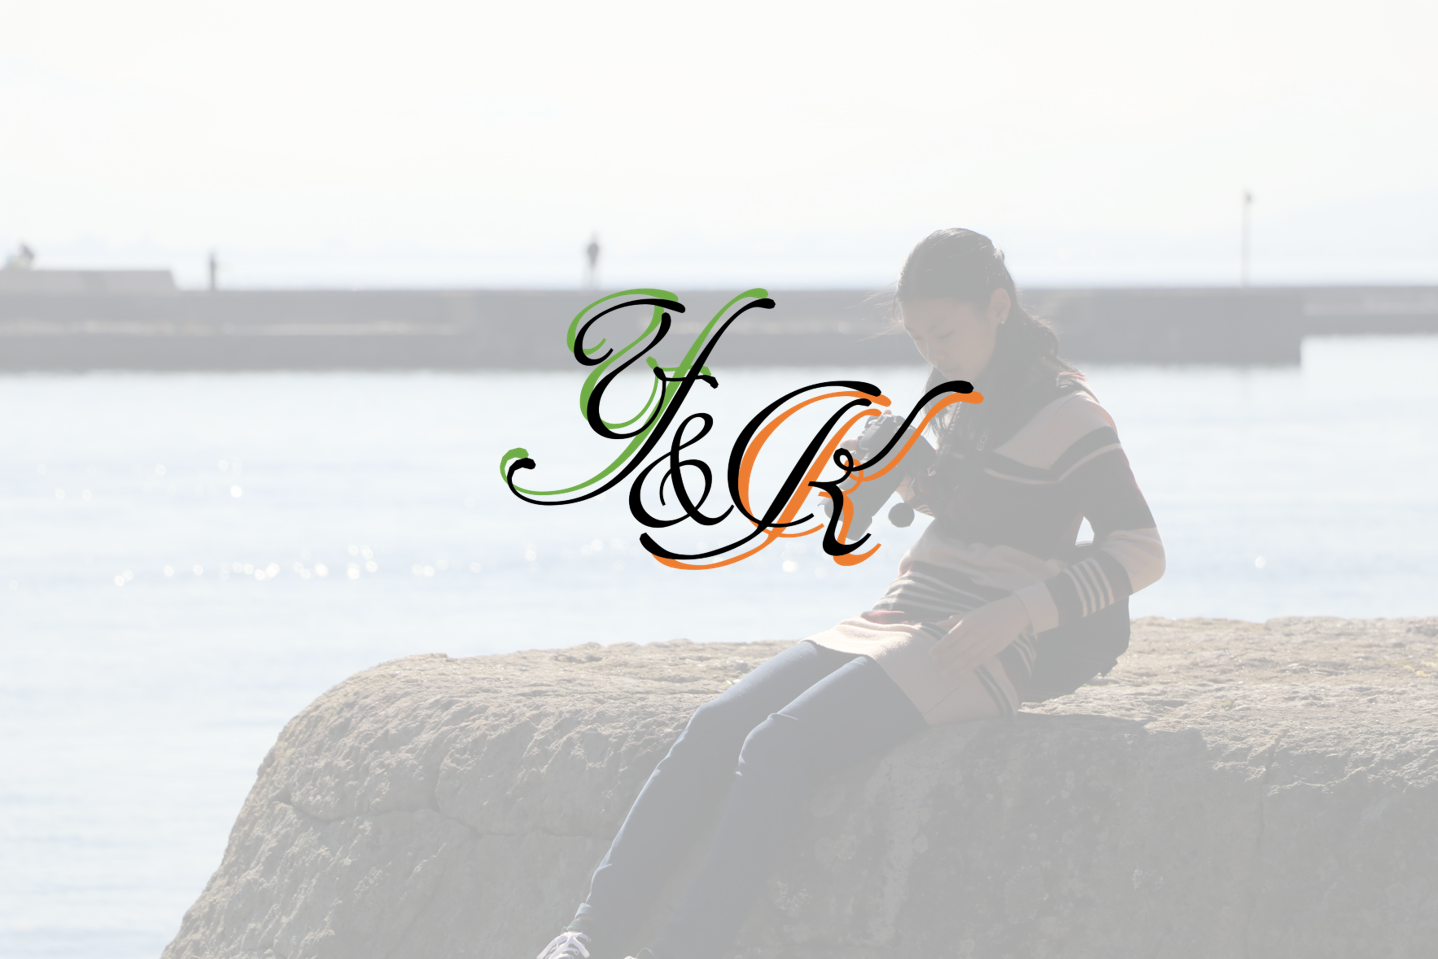
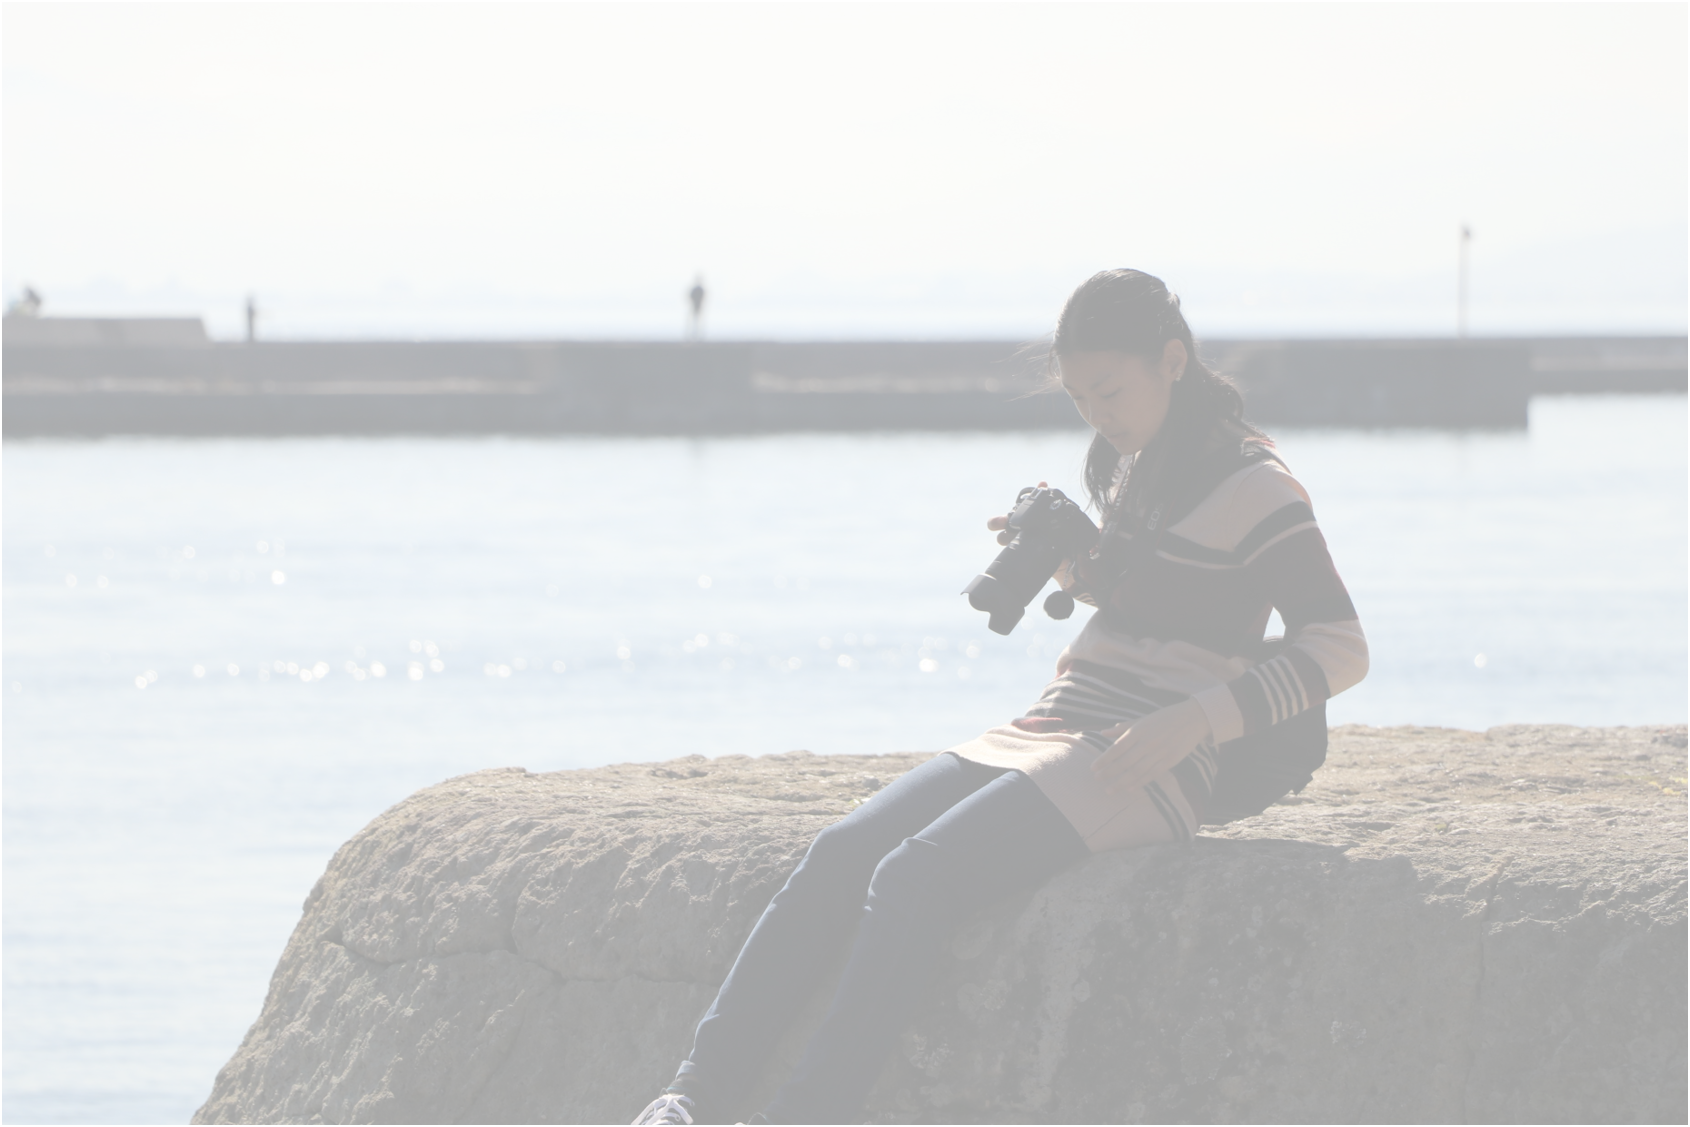
Add files via upload

Changed region(s): [[0.3366, 0.3024, 0.7038, 0.6048], [0.0, 0.9979, 1.0, 1.0]]

diff --git a/portrait/index.html b/portrait/index.html
@@ -20,11 +20,11 @@
     <!-- css -->
     <link rel="stylesheet" href="../css/main.css">
 
-    <title>Y & K studio</title>
+    <title>Kana's photo</title>
   </head>
   <body>
     <nav class="navbar navbar-expand-lg navbar-light bg-light">
-        <a class="navbar-brand" href="#">Y and K photo</a>
+        <a class="navbar-brand" href="#">Kana's photo</a>
         <button class="navbar-toggler" type="button" data-toggle="collapse" data-target="#navbarSupportedContent" aria-controls="navbarSupportedContent" aria-expanded="false" aria-label="Toggle navigation">
             <span class="navbar-toggler-icon"></span>
         </button>
@@ -35,7 +35,7 @@
                     <a class="nav-link" href="../index.html">Home<span class="sr-only">(current)</span></a>
                 </li>
                 <li class="nav-item">
-                    <a class="nav-link" href="../photographer/index.html">photographer</a>
+                    <a class="nav-link" href="../about/index.html">About</a>
                 </li>
                 <li class="nav-item">
                     <a class="nav-link" href="#">Portrait</a>
@@ -72,16 +72,16 @@
     
     <p class="sub-title">Portrait</p>
     <div class="container work gallery">
-        <div class="row">
-                <figure class="col-6 col-sm-3 col-md-2"><a href="../img/s-1/p-1.jpg" data-lightbox="group"><img src="../img/s-1/gallery/p-1.jpg" width="100%"/></a></figure>
-                <figure class="col-6 col-sm-3 col-md-2"><a href="../img/s-1/p-2.jpg" data-lightbox="group"><img src="../img/s-1/gallery/p-2.jpg" width="100%"/></a></figure>
-                <figure class="col-6 col-sm-3 col-md-2"><a href="../img/s-1/p-3.jpg" data-lightbox="group"><img src="../img/s-1/gallery/p-3.jpg" width="100%"/></a></figure>
-                <figure class="col-6 col-sm-3 col-md-2"><a href="../img/s-1/p-4.jpg" data-lightbox="group"><img src="../img/s-1/gallery/p-4.jpg" width="100%"/></a></figure>
-                <figure class="col-6 col-sm-3 col-md-2"><a href="../img/s-1/p-5.jpg" data-lightbox="group"><img src="../img/s-1/gallery/p-5.jpg" width="100%"/></a></figure>
-                <figure class="col-6 col-sm-3 col-md-2"><a href="../img/s-1/p-6.jpg" data-lightbox="group"><img src="../img/s-1/gallery/p-6.jpg" width="100%"/></a></figure>
-                <figure class="col-6 col-sm-3 col-md-2"><a href="../img/s-1/p-7.jpg" data-lightbox="group"><img src="../img/s-1/gallery/p-7.jpg" width="100%"/></a></figure>
-                <figure class="col-6 col-sm-3 col-md-2"><a href="../img/s-1/p-8.jpg" data-lightbox="group"><img src="../img/s-1/gallery/p-8.jpg" width="100%"/></a></figure>
-                <figure class="col-6 col-sm-3 col-md-2"><a href="../img/s-1/p-9.jpg" data-lightbox="group"><img src="../img/s-1/gallery/p-9.jpg" width="100%"/></a></figure>
+        <div class="row d-flex justify-content-space-around">
+                <figure><a href="../img/s-1/p-1.jpg" data-lightbox="group"><img src="../img/s-1/gallery/p-1.jpg" width="100%"/></a></figure>
+                <figure><a href="../img/s-1/p-2.jpg" data-lightbox="group"><img src="../img/s-1/gallery/p-2.jpg" width="100%"/></a></figure>
+                <figure><a href="../img/s-1/p-3.jpg" data-lightbox="group"><img src="../img/s-1/gallery/p-3.jpg" width="100%"/></a></figure>
+                <figure><a href="../img/s-1/p-4.jpg" data-lightbox="group"><img src="../img/s-1/gallery/p-4.jpg" width="100%"/></a></figure>
+                <figure><a href="../img/s-1/p-5.jpg" data-lightbox="group"><img src="../img/s-1/gallery/p-5.jpg" width="100%"/></a></figure>
+                <figure><a href="../img/s-1/p-6.jpg" data-lightbox="group"><img src="../img/s-1/gallery/p-6.jpg" width="100%"/></a></figure>
+                <figure><a href="../img/s-1/p-7.jpg" data-lightbox="group"><img src="../img/s-1/gallery/p-7.jpg" width="100%"/></a></figure>
+                <figure><a href="../img/s-1/p-8.jpg" data-lightbox="group"><img src="../img/s-1/gallery/p-8.jpg" width="100%"/></a></figure>
+                <figure><a href="../img/s-1/p-9.jpg" data-lightbox="group"><img src="../img/s-1/gallery/p-9.jpg" width="100%"/></a></figure>
         </div>
     </div>
 

diff --git a/about/index.html b/about/index.html
@@ -13,7 +13,6 @@
     <link href="https://fonts.googleapis.com/css?family=Noto+Sans+JP" rel="stylesheet">
 
     <!-- css -->
-    <link href="https://cdnjs.cloudflare.com/ajax/libs/font-awesome/4.6.3/css/font-awesome.css" rel="stylesheet">
     <link rel="stylesheet" href="../css/main.css">
 
 
@@ -32,7 +31,7 @@
                     <a class="nav-link" href="../index.html">Home<span class="sr-only">(current)</span></a>
                 </li>
                 <li class="nav-item">
-                    <a class="nav-link" href="../about/index.html">About</a>
+                    <a class="nav-link" href="#">About</a>
                 </li>
                 <li class="nav-item">
                     <a class="nav-link" href="../portrait/index.html">Portrait</a>
@@ -66,18 +65,34 @@
             </form> -->
         </div>
     </nav>
+    
+    <div class="sub-title">About</div>
 
-    <p class="sub-title">Contact</p>
-
-    <div class="share">
-		<ul style="list-style:none;">
-			<li><a href="https://www.facebook.com/TEDxShimaneU/" target="_blank"><i class="fa fa-facebook white fa-size"></i></a></li>
-			<li><a href="https://twitter.com/tedxshimaneu" target="_blank"><i class="fa fa-twitter white fa-size"></i></a></li>
-			<li><a href="https://www.instagram.com/tedxshimaneu/?hl=ja" target="_blank"><i class="fa fa-instagram white fa-size"></i></a></li>
-			<li><a href="https://www.flickr.com/photos/153907960@N03/" target="_blank"><i class="fa fa-flickr white fa-size"></i></a></li>
-		</ul>
-	</div>
-
+    
+    <div class="about contents_kana">
+        <div class="contents_inner_kana">
+            <div class="container">    
+                <div class="row d-flex justify-content-center align-items-center">
+                    <div class="text-center">
+                        <img src="../img/kana.jpg">
+                    </div>
+                    <div class="photo_info">
+                        <h3>Kana Ito</h3>
+                        <div>東京生まれ、島根育ちの写真が好きな女子大生</div>
+                        <div>主に風景や物を撮影</div>
+                        <div>2017年7月にカメラを購入</div>
+                        <div>構図に悩む日々…</div></br>
+                        <div>【使用機材】</div>
+                        <div>Canon Eos 9000D</div>
+                        <div>EF-S18-135mm F3.5-5.6 IS STM</div>
+                        <div>EF-S10-18mm F4.5-5.6 IS STM</div>
+                        <div>EF50mm F1.8 STM</div>
+                        <div>EF100mm F2.8 マクロ USM</div>
+                    </div>
+                </div>
+            </div>
+        </div>
+    </div>
 
 
 

diff --git a/index.html b/index.html
@@ -16,12 +16,12 @@
     <link rel="stylesheet" href="css/main.css">
 
 
-    <title>Y & K photo</title>
+    <title>Kana's photo</title>
   </head>
   <body>
     <section class="top">
         <nav class="navbar navbar-expand-lg navbar-light bg-light">
-            <a class="navbar-brand" href="#">Y and K photo</a>
+            <a class="navbar-brand" href="#">Kana's photo</a>
             <button class="navbar-toggler" type="button" data-toggle="collapse" data-target="#navbarSupportedContent" aria-controls="navbarSupportedContent" aria-expanded="false" aria-label="Toggle navigation">
                 <span class="navbar-toggler-icon"></span>
             </button>
@@ -32,7 +32,7 @@
                         <a class="nav-link" href="#">Home<span class="sr-only">(current)</span></a>
                     </li>
                     <li class="nav-item">
-                        <a class="nav-link" href="photographer/index.html">photographer</a>
+                        <a class="nav-link" href="about/index.html">About</a>
                     </li>
                     <li class="nav-item">
                         <a class="nav-link" href="portrait/index.html">Portrait</a>
@@ -66,14 +66,15 @@
                 </form> -->
             </div>
         </nav>
+        <div class="top-title d-flex justify-content-center">
+            Kana's Photo
+        </div>
 
     <!-- <p class="top-title">Photo Studio</p> -->
     </section>
 
     <!-- Optional JavaScript -->
     <!-- jQuery first, then Popper.js, then Bootstrap JS -->
-    <script src="//ajax.googleapis.com/ajax/libs/jquery/1.11.3/jquery.min.js"></script>
-    <script src="//maxcdn.bootstrapcdn.com/bootstrap/3.3.5/js/bootstrap.min.js"></script>
     <script src="https://code.jquery.com/jquery-3.3.1.slim.min.js" integrity="sha384-q8i/X+965DzO0rT7abK41JStQIAqVgRVzpbzo5smXKp4YfRvH+8abtTE1Pi6jizo" crossorigin="anonymous"></script>
     <script src="https://cdnjs.cloudflare.com/ajax/libs/popper.js/1.14.6/umd/popper.min.js" integrity="sha384-wHAiFfRlMFy6i5SRaxvfOCifBUQy1xHdJ/yoi7FRNXMRBu5WHdZYu1hA6ZOblgut" crossorigin="anonymous"></script>
     <script src="https://stackpath.bootstrapcdn.com/bootstrap/4.2.1/js/bootstrap.min.js" integrity="sha384-B0UglyR+jN6CkvvICOB2joaf5I4l3gm9GU6Hc1og6Ls7i6U/mkkaduKaBhlAXv9k" crossorigin="anonymous"></script>

diff --git a/css/main.css b/css/main.css
@@ -14,8 +14,9 @@ html, body {
 }
 
 .top-title{
-  font-size: 100px;
+  font-size: 10vmin;
   text-align: center;
+  margin-top: 35vmin;
   font-family: 'Dancing Script', cursive;
 }
 
@@ -25,53 +26,26 @@ html, body {
 
 /*-----------------------------------pages-------------------------------*/
 .sub-title{
-  font-size: 80px;
+  font-size: 10vmin;
   text-align: center;
   font-family: 'Dancing Script', cursive;
 }
 
 /*Top*/
 
-/*---------------------------Photographer----------------------------*/
-.photographer img{
-  width: 35vmin;
-  margin: 50px;
+/*---------------------------About----------------------------*/
+.about img{
+  width: 25vmin;
+  margin: 5vmin;
 }
 .photo_info{
-  padding: 50px;
-}
-.contents_yoshi {
-  background-color: #deffc8;
-  color: rgb(0, 0, 0);
-  padding-bottom: 150px;
-}
-.contents_kana {
-  background-color: #ffd1b6;
-  color: rgb(0, 0, 0);
-  padding-bottom: 150px;
-}
-.contents_yoshi:after {
-  background: url("../svg/separate1.svg");
-  content: "";
-  background-repeat: no-repeat;
-  display: block;
-  height: 150px;
-  position: absolute;
-  width: 100%;
-}
-.contents_kana:after {
-  background: url("../svg/separate2.svg");
-  content: "";
-  background-repeat: no-repeat;
-  display: block;
-  height: 150px;
-  position: absolute;
-  width: 100%;
+  padding: 5vmin;
 }
 
-/*-------------------------service--------------------------------*/
+
+/*-------------------------work--------------------------------*/
 .work img{
-  width: 100%;
+  width: 20vmin;
 }
 .gallery{
   margin-top: 60px; 
